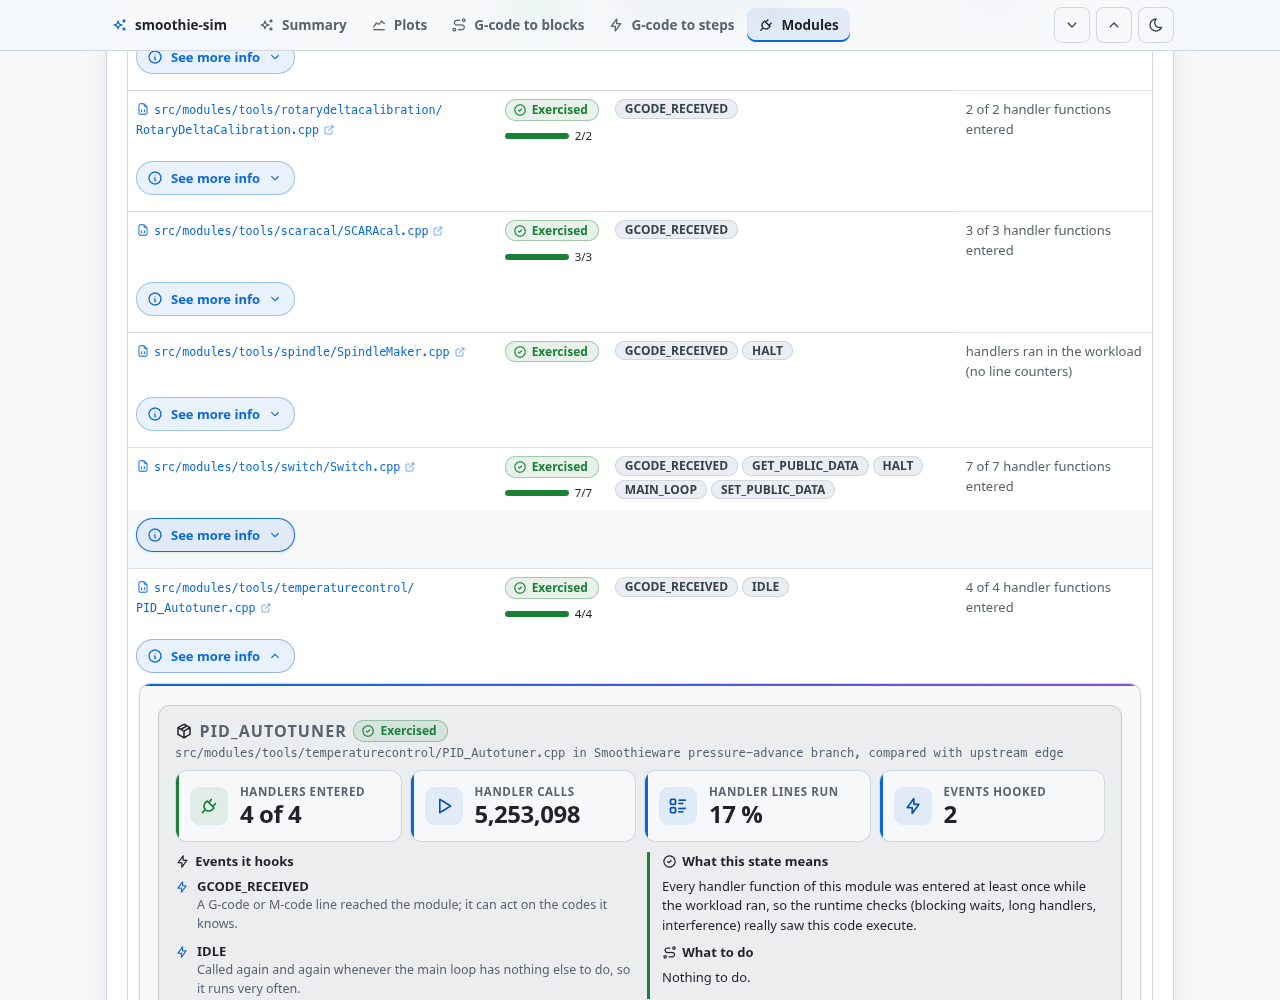
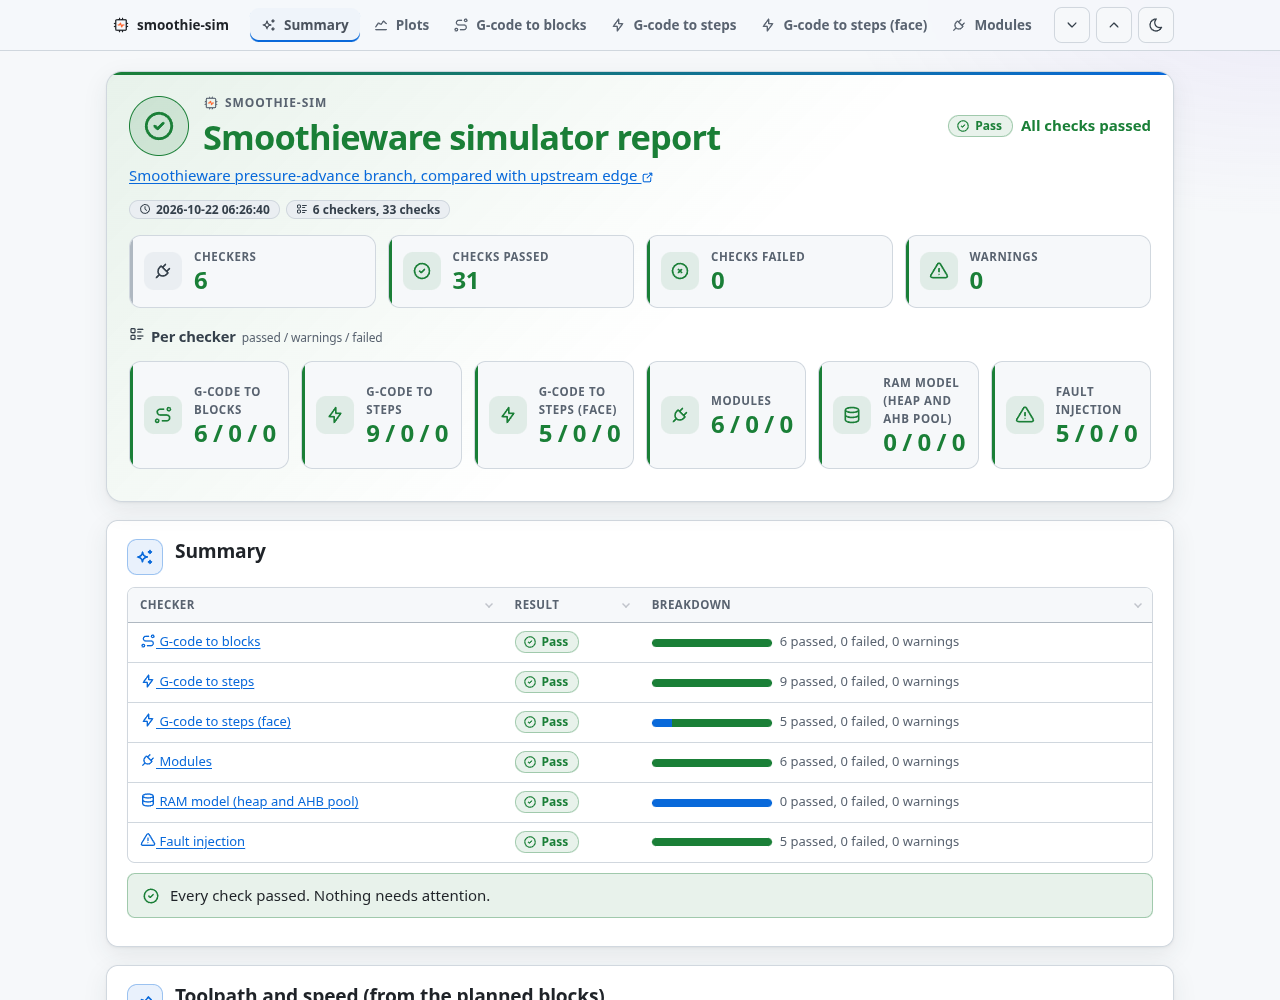
Fix the report's per-checker cards for six checkers, add integration tests, refresh the example screenshot
Counts no longer wrap onto three lines and the RAM model card gets its icon. tests/test_integration.py runs a real simulator (SMOOTHIE_SIM=...): position check on the cartesian cases and a wrong steps/mm claim, the facing program, the fault check, event dispatch against fixed tick, determinism.

diff --git a/tests/test_integration.py b/tests/test_integration.py
@@ -1,0 +1,89 @@
+"""End-to-end tests that run a real smoothie-sim binary: SMOOTHIE_SIM=build/smoothie-sim python3 -I tests/test_integration.py
+Skipped when SMOOTHIE_SIM is not set (the unit tests in the other files need no binary)."""
+import json, os, re, subprocess, sys, tempfile, unittest
+
+HERE = os.path.dirname(os.path.abspath(__file__))
+ROOT = os.path.dirname(HERE)
+sys.path.insert(0, os.path.join(ROOT, "checkers"))
+SIM = os.environ.get("SMOOTHIE_SIM", "")
+CART = os.path.join(ROOT, "cases/cartesian")
+
+
+def read(path):
+    with open(path) as f:
+        return f.read()
+
+
+def run_cli(*args):
+    return subprocess.run([sys.executable, "-I", *args], capture_output=True, text=True, timeout=900)
+
+
+def results(path):
+    return {c["check"]: c["status"] for c in json.loads(read(path))["checks"]}
+
+
+def sim_json(out, gcode, config, *extra):
+    subprocess.run([SIM, "--config", config, "--gcode", gcode, "--out", out, *extra], capture_output=True, timeout=900, check=True)
+    text = read(out)
+    return re.sub(r"Used Heap Size: \d+", "H", text.replace(out, "OUT"))
+
+
+@unittest.skipUnless(SIM and os.path.exists(SIM), "set SMOOTHIE_SIM to a built smoothie-sim")
+class Integration(unittest.TestCase):
+    def setUp(self):
+        self.tmp = tempfile.TemporaryDirectory()
+        self.addCleanup(self.tmp.cleanup)
+
+    def path(self, name):
+        return os.path.join(self.tmp.name, name)
+
+    def steps_check(self, gcode, config):
+        out = self.path("r.json")
+        run_cli(os.path.join(ROOT, "checkers/blocks_to_steps.py"), "--sim", SIM, "--config", config, "--gcode", gcode, "--workdir", self.path("w"), "--out", out)
+        return results(out)
+
+    def test_position_check_passes_on_square_and_mixed(self):
+        for name in ("square.gcode", "mixed.gcode"):
+            st = self.steps_check(os.path.join(CART, name), os.path.join(CART, "config.txt"))
+            self.assertEqual(st["Robot machine position equals the G-code destination"], "pass", name)
+            self.assertNotIn("fail", st.values(), name)
+
+    def test_position_check_catches_a_wrong_steps_per_mm_claim(self):
+        # the simulator runs with the real config; the checker is told another steps/mm, so the pulses cannot match
+        import position_check
+        from common import Result
+        cfg = read(os.path.join(CART, "config.txt"))
+        gcode = read(os.path.join(CART, "square.gcode"))
+        sim = json.loads(sim_json(self.path("s.json"), os.path.join(CART, "square.gcode"), os.path.join(CART, "config.txt")))
+        good, bad = Result("t", "t"), Result("t", "t")
+        position_check.check(good, sim, gcode, cfg)
+        position_check.check(bad, sim, gcode, re.sub(r"alpha_steps_per_mm\s+\S+", "alpha_steps_per_mm 1", cfg))
+        self.assertNotIn("fail", [c["status"] for c in good.to_dict()["checks"]])
+        self.assertIn("fail", [c["status"] for c in bad.to_dict()["checks"]])
+
+    def test_facing_program_runs_through_steps_checker(self):
+        st = self.steps_check(os.path.join(CART, "face-4x4-stock.gcode"), os.path.join(CART, "config.txt"))
+        self.assertNotIn("fail", st.values())
+
+    def test_fault_check_halts_and_control_does_not(self):
+        out = self.path("f.json")
+        r = run_cli(os.path.join(ROOT, "checkers/fault_check.py"), "--sim", SIM, "--config", os.path.join(ROOT, "cases/modules/config.txt"), "--workdir", self.path("f"), "--out", out)
+        self.assertEqual(r.returncode, 0, r.stdout + r.stderr)
+        self.assertEqual(set(results(out).values()), {"pass"})
+
+    def test_event_dispatch_and_fixed_tick_give_identical_output(self):
+        cfg, gc = os.path.join(CART, "config.txt"), os.path.join(CART, "mixed.gcode")
+        self.assertEqual(sim_json(self.path("a.json"), gc, cfg, "--fixed-tick"), sim_json(self.path("a.json"), gc, cfg, "--event-dispatch"))
+
+    def test_same_binary_is_deterministic(self):
+        cfg, gc = os.path.join(CART, "config.txt"), os.path.join(CART, "square.gcode")
+        self.assertEqual(sim_json(self.path("d.json"), gc, cfg), sim_json(self.path("d.json"), gc, cfg))
+
+    def test_pulse_position_is_reported(self):
+        d = json.loads(sim_json(self.path("p.json"), os.path.join(CART, "square.gcode"), os.path.join(CART, "config.txt")))
+        self.assertEqual(len(d["pulse_position"]), len(d["final_steps"]))
+        self.assertIn("machine_position", d)
+
+
+if __name__ == "__main__":
+    unittest.main()

diff --git a/checkers/report.py b/checkers/report.py
@@ -352,7 +352,7 @@ def hero(title, subject, subject_link, overall, run_url, allr, R, stamp):
         chips.append(f'<a class="chip chip-info" href="{esc(run_url)}" target="_blank" rel="noopener noreferrer">{icon("terminal-2", 12)}<span>CI run</span>{icon("external-link", 12)}</a>')
     cards = (stat_card("Checkers", str(len(allr)), "", "plug") + stat_card("Checks passed", str(tot["pass"]), "pass", "circle-check")
              + stat_card("Checks failed", str(tot["fail"]), "fail" if tot["fail"] else "pass", "circle-x") + stat_card("Warnings", str(tot["warn"]), "warn" if tot["warn"] else "pass", "alert-triangle"))
-    per = "".join(stat_card(r["title"], f'{int(num(r["counts"].get("pass")))} / {int(num(r["counts"].get("warn")))} / {int(num(r["counts"].get("fail")))}',
+    per = "".join(stat_card(r["title"], f'{int(num(r["counts"].get("pass")))}\u00a0/\u00a0{int(num(r["counts"].get("warn")))}\u00a0/\u00a0{int(num(r["counts"].get("fail")))}',
                             r["status"], r.get("icon", "")) for r in R if r.get("counts"))
     words = {"pass": "All checks passed", "warn": "Passed with warnings", "fail": "At least one check failed"}
     return (f'<header class="hero rp-hero {overall}"><div class="hero-top"><div class="rp-title"><span class="rp-orb">{icon(STATUS_ICON[overall], 34)}</span>'

diff --git a/checkers/report_ui.py b/checkers/report_ui.py
@@ -511,6 +511,7 @@ summary:hover{color:var(--fg)}
 .stat-body{min-width:0}
 .stat-label{font-size:11.5px;font-weight:600;letter-spacing:.05em;text-transform:uppercase;color:var(--mut)}
 .stat-value{font-size:1.5rem;font-weight:700;line-height:1.2;letter-spacing:-.02em;overflow-wrap:anywhere}
+.stat-value{white-space:nowrap}.stats .stat-value{font-size:clamp(1.05rem,2.1vw,1.5rem)}
 .stat-pass::before{background:var(--pass)}.stat-pass .stat-ic{background:var(--pass-bg);color:var(--pass-tx)}
 .stat-fail::before{background:var(--fail)}.stat-fail .stat-ic{background:var(--fail-bg);color:var(--fail-tx)}
 .stat-warn::before{background:var(--warn)}.stat-warn .stat-ic{background:var(--warn-bg);color:var(--warn-tx)}
